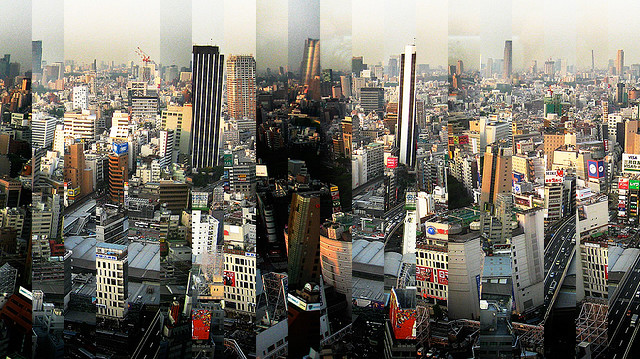
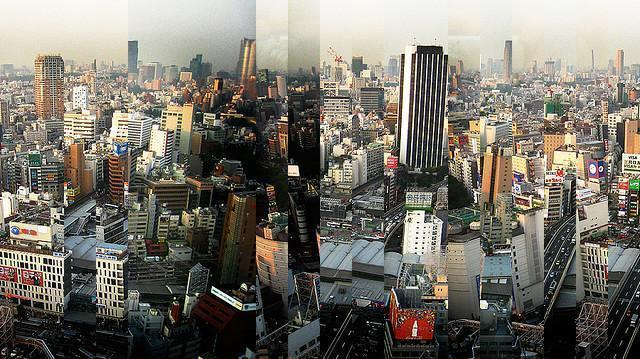
iterate strip comparison with old and new image

diff --git a/instagram_challenge/unscramble.py b/instagram_challenge/unscramble.py
@@ -9,69 +9,85 @@ def main():
   
   ufile = urllib.urlopen(img_url)
   info = ufile.info()
-  img_file = './shredded.png'
+  global img_file
+  img_file = 'shredded.png'
   global output_img_file
   output_img_file = 'unshredded.jpg'
 
-  if not os.path.exists(os.path.abspath(img_file)):
-    if info.gettype() == 'image/png':
-      print 'Retrieving ' + img_file + ' ...'
-      urllib.urlretrieve(img_url, img_file) 
+  if info.gettype() == 'image/png':
+    print 'Retrieving ' + img_file + ' ...'
+    urllib.urlretrieve(img_url, img_file) 
   
-  if os.path.exists(os.path.abspath(output_img_file)):
-    os.remove(output_img_file)
 
   global image
   global width
   global height
   global data
+  global NUMBER_OF_COLUMNS
+  global shred_width
+  global unshredded
+  
+  NUMBER_OF_COLUMNS = 20  
+  
 
+  print 'Unscrambling ...'
+  for i in range (50):
+    reset_image_file()
+   
+    current_avg = ''
+    matched_strip = ''
+    matched_strip_num = '' 
+    first_strip = (0, 0, shred_width, height)
+    for shred_number in range(1, NUMBER_OF_COLUMNS):
+      x1, y1 = shred_width * shred_number, 0
+      x2, y2 = x1 + shred_width, height
+      # compare first strip with current strip in loop
+      current_strip = (x1, y1, x2, y2)
+      (avg_diff, orientation) = compare_strips(first_strip, current_strip)
+      
+      if (current_avg == '' or avg_diff < current_avg) and avg_diff != 0:
+        current_avg = avg_diff
+        matched_strip = current_strip
+        matched_strip_num = shred_number
+        print 'strip: %s current avg: %s' % (shred_number, current_avg)
+        
+
+    #print 'avg diff: %s orientation: %s current strip: %s strip num: %s' % (current_avg, orientation, str(matched_strip), matched_strip_num)
+      # create new image with strip in correct place
+      # repeat process
+    
+    insert_neighbor_strips(first_strip, matched_strip, orientation, unshredded)
+    
+    # reset image file
+
+def reset_image_file():
+  if os.path.exists(os.path.abspath(output_img_file)):
+    if os.path.exists(os.path.abspath(img_file)):
+      os.remove(img_file)
+    os.rename(output_img_file, img_file)
+  
+  global width
+  global height
+  global shred_width
+  global unshredded
+  global data 
+  global image
+  
   image = Image.open(img_file)
   width, height = image.size
-  print 'width: %s height: %s' % (width, height)
   data = image.getdata() # This gets pixel data
   
   # Create a new image of the same size as the original
   # and copy a region into the new image
-  TOLERANCE = 50
-  global NUMBER_OF_COLUMNS
-  NUMBER_OF_COLUMNS = 20
   unshredded = Image.new("RGBA", image.size)
-  global shred_width
   shred_width = unshredded.size[0]/NUMBER_OF_COLUMNS
-
-  current_avg = ''
-  matched_strip = ''
-  matched_strip_num = '' 
-  first_strip = (0, 0, shred_width, height)
-  for shred_number in range(1, NUMBER_OF_COLUMNS):
-    x1, y1 = shred_width * shred_number, 0
-    x2, y2 = x1 + shred_width, height
-    # compare first strip with current strip in loop
-    current_strip = (x1, y1, x2, y2)
-    (avg_diff, orientation) = compare_strips(first_strip, current_strip)
-    
-    if (current_avg == '' or avg_diff < current_avg) and avg_diff != 0:
-      current_avg = avg_diff
-      matched_strip = current_strip
-      matched_strip_num = shred_number
-      print 'strip: %s current avg: %s' % (shred_number, current_avg)
-      
-
-    #if avg_diff < TOLERANCE:     
-      #if orientation == 1:
-  print 'avg diff: %s orientation: %s current strip: %s strip num: %s' % (current_avg, orientation, str(matched_strip), matched_strip_num)
-    # create new image with strip in correct place
-    # repeat process
-  insert_neighbor_strips(first_strip, matched_strip, orientation, unshredded)
-
 
 def insert_neighbor_strips(strip1, strip2, orientation, img):
   # swap first strip with matched strip + 1 if orientation B, otherwise swap with matched strip - 1
     xm = ''
     if orientation == 1:
       # A B
-      xm = strip2[0] - shred_width
+      xm = strip2[0] - shred_width # xm is the x coordinate of the matching strip
       insert_strip(strip1, img, (xm, 0))
       insert_strip(strip2, img, (strip2[0], 0))
       insert_strip([xm, 0, strip2[0], height], img, (0,0))
@@ -84,9 +100,12 @@ def insert_neighbor_strips(strip1, strip2, orientation, img):
   
     for shred_number in range(1, NUMBER_OF_COLUMNS):
       # insert rest of strips here
-      if x not in (xm:
-      x1, y1 = shred_width * shred_number, 0
-      x2, y2 = x1 + shred_width, height
+      x = shred_width * shred_number
+      #print 'current x: %s matched x: %s strip1: %s strip2: %s' % (x, xm, strip1[0], strip2[0])
+      if x not in (xm, strip1[0], strip2[0]):
+        x1, y1 = x, 0
+        x2, y2 = x1 + shred_width, height
+        insert_strip([x1, y1, x2, y2], img, (x,0))
 
 def insert_strip(strip, img, destination_point):
   #source_region = image.crop([x1, y1, x2, y2])
@@ -116,12 +135,12 @@ def compare_strips(strip1, strip2):
   
   height_inc = height / 10
   height_marker = 0  
-  for height_marker in range(0, height-height_inc, height_inc):
+  for height_marker in range(0, height, height_inc):
     # compare left of A to right of B (Orientation 2)
     dr1, dg1, db1, da1, dn1 = subtract_rgb(get_pixel_value(lx_1 + 1, height_marker), get_pixel_value(rx_2 - 1, height_marker))
     # compare right of A to left of B (Orientation 1)
-    print 'first pixel: %s second pixel: %s' % (str(get_pixel_value(rx_1 - 1, height_marker)), str(get_pixel_value(lx_2 + 1, height_marker)))
-    dr2, dg2, db2, da2, dn2 = subtract_rgb(get_pixel_value(rx_1, height_marker), get_pixel_value(lx_2, height_marker))
+    #print 'first pixel: %s second pixel: %s' % (str(get_pixel_value(rx_1 - 1, height_marker)), str(get_pixel_value(lx_2 + 1, height_marker)))
+    dr2, dg2, db2, da2, dn2 = subtract_rgb(get_pixel_value(rx_1 - 1, height_marker), get_pixel_value(lx_2 + 1, height_marker))
     
     norm_list1.append(dn1)
     norm_list2.append(dn2)
@@ -129,7 +148,7 @@ def compare_strips(strip1, strip2):
   avg1 = get_avg(norm_list1)
   avg2 = get_avg(norm_list2)
   
-  print 'avg 1: %s avg 2: %s' % (avg1, avg2)
+  #print 'avg 1: %s avg 2: %s' % (avg1, avg2)
   
   if avg1 > avg2:
     return (avg2, 1) # Orientation 1
@@ -146,7 +165,11 @@ def subtract_rgb(rgb1, rgb2):
   dr = rgb1[0] - rgb2[0]
   dg = rgb1[1] - rgb2[1]
   db = rgb1[2] - rgb2[2]
-  da = rgb1[3] - rgb2[3]
+  #print 'rgb1: %s rgb2: %s' % (str(rgb1), str(rgb2))
+  if len(rgb1) > 3 and len(rgb2) > 3:
+    da = rgb1[3] - rgb2[3]
+  else:
+    da = 0
   
   norm_diff = math.sqrt(math.pow(dr, 2) + math.pow(dg, 2) + math.pow(db, 2) + math.pow(da, 2))
   return (dr, dg, db, da, norm_diff)
